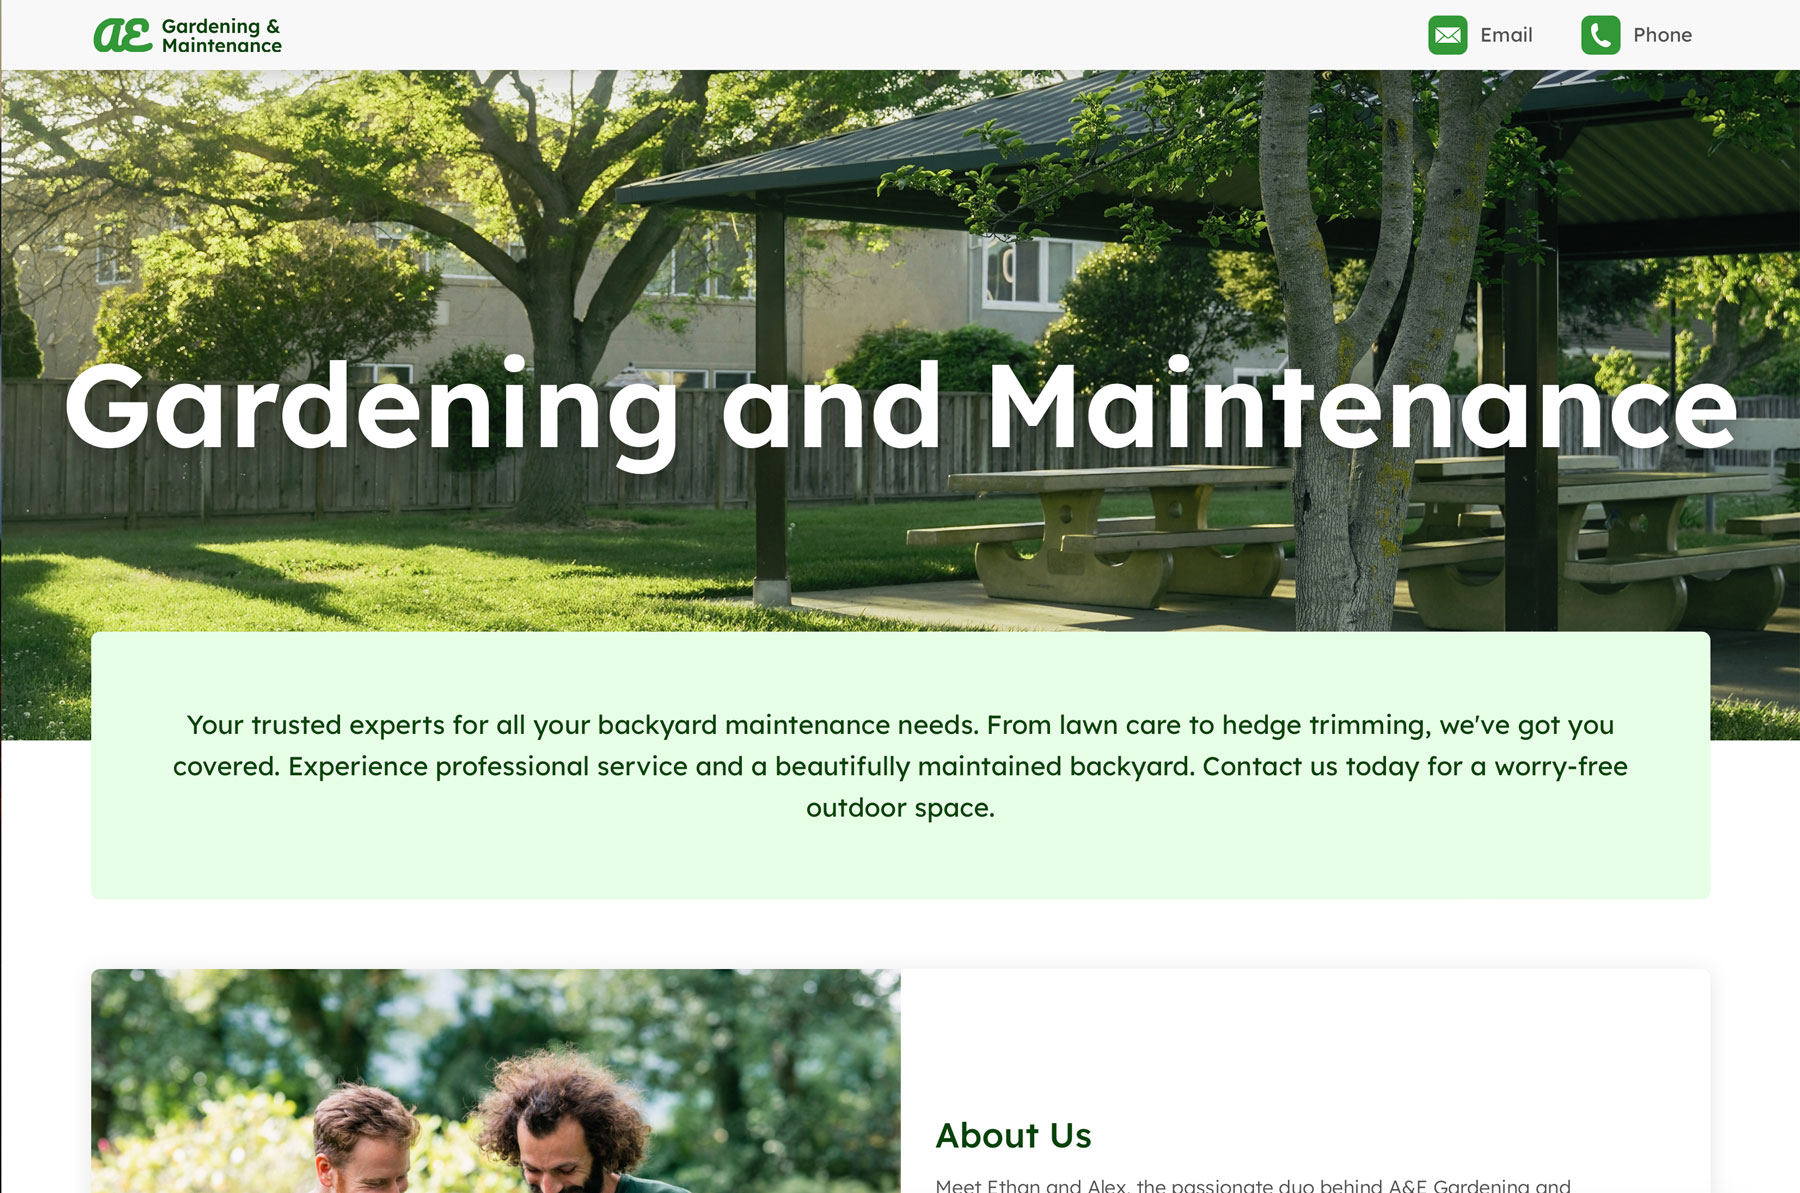
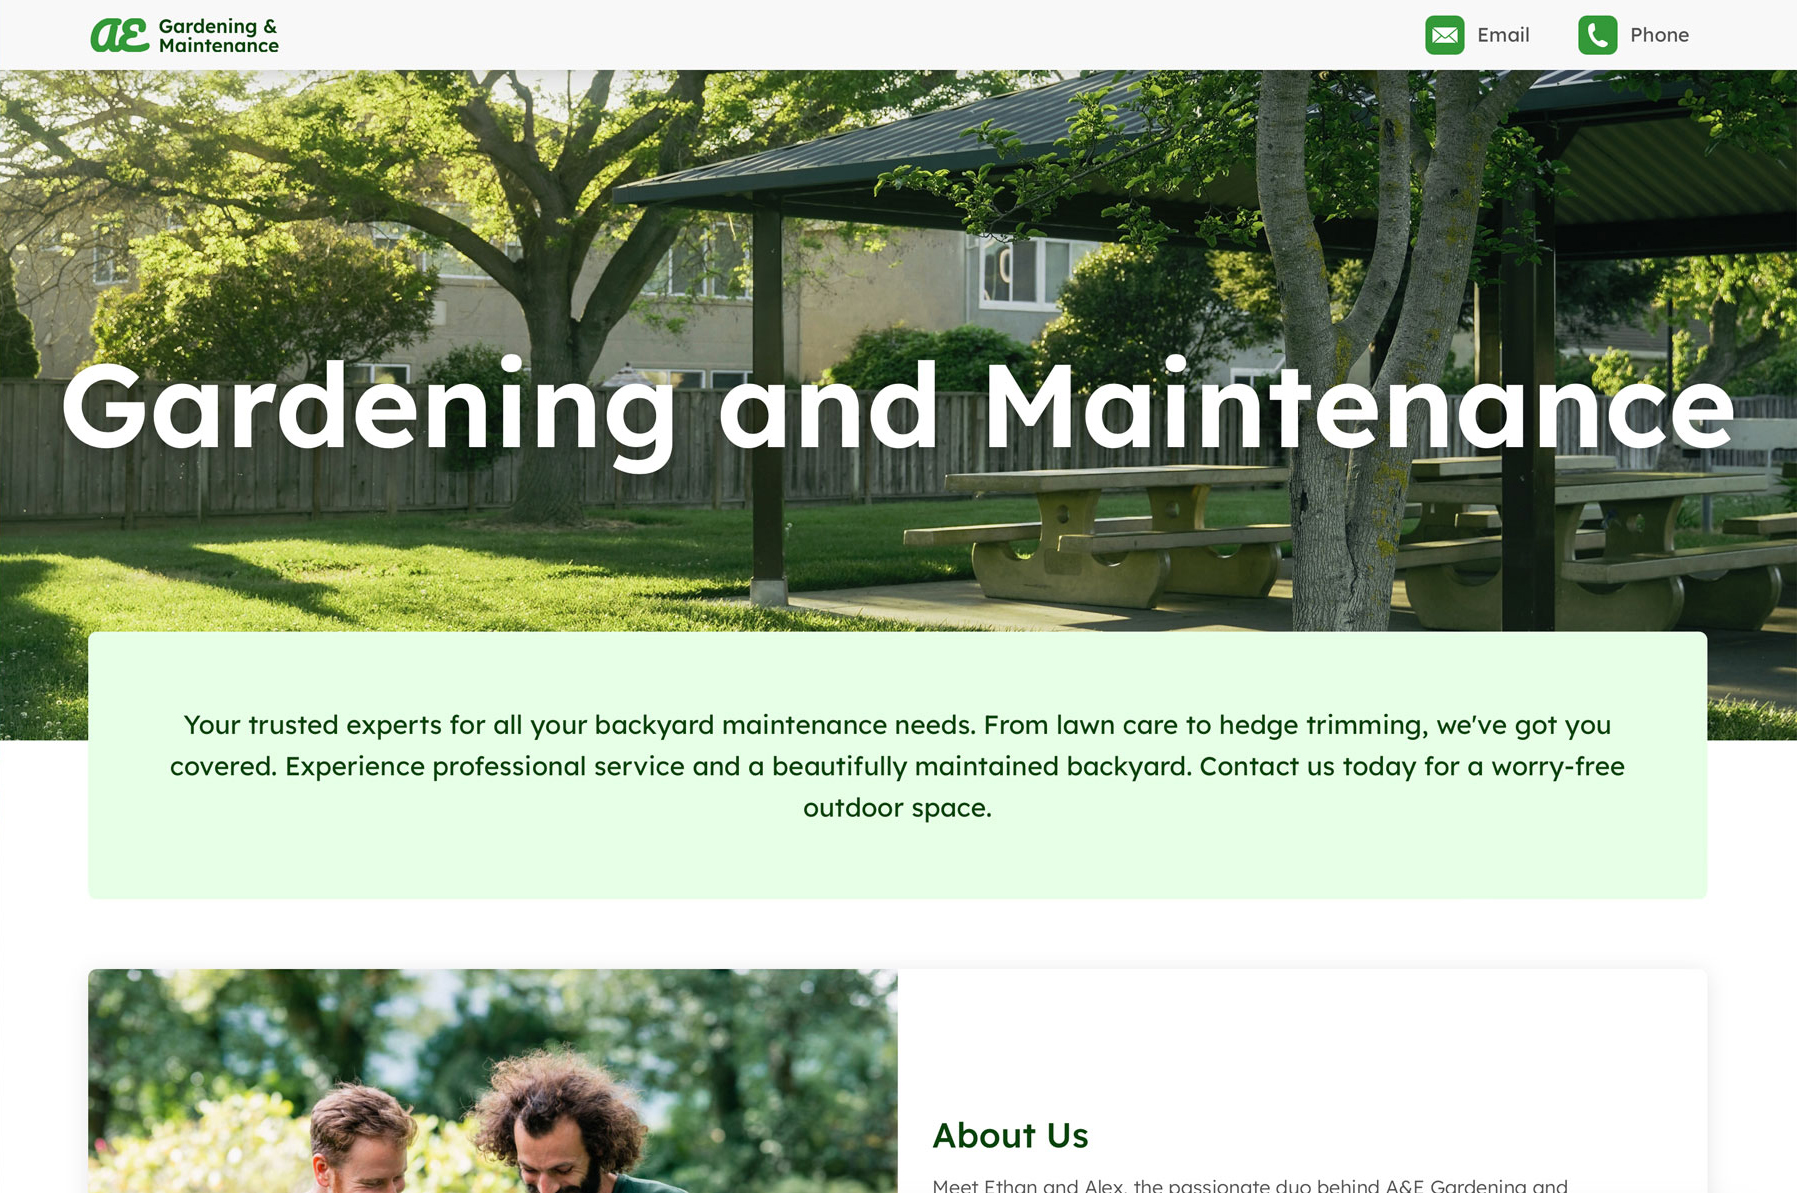
added native & shopify to tech stack and fixed image edges

diff --git a/src/pages/Portfolio/Portfolio.tsx b/src/pages/Portfolio/Portfolio.tsx
@@ -1,7 +1,4 @@
-import React from 'react'
 import './Portfolio.css'
-import headerImageDark from '../../assets/images/componentHeroDark.png'
-import headerImageLight from '../../assets/images/componentHeroLight.png'
 import { useModalContext } from '../../Context'
 import PortfolioItem from '../../components/PortfolioItem/PortfolioItem'
 import InvoiceGenerator from '../../assets/images/invoice-generator.png'
@@ -77,7 +74,7 @@ export default function Portfolio() {
                     year='2022'
                     description={`Memble is a membership based application that connects businesses to their customer base. Through ideation and wireframing, I created the branding and UI/UX for the Memble app. This was a solo project during the design phase where I worked closely with the Founder of Memble to create a seamless user-experience while also creating customer engagement to their local businesses. Once designs were approved I joined the Frontend Development team and worked on parts of the app using React Native. I am really happy with how development was implemented to ensure pixel perfect outcomes.`}
                     tags={['Design', 'Frontend']}
-                    tech={['Illustrator', 'Lottie', 'Photoshop', 'React', 'XD']}
+                    tech={['Illustrator', 'Lottie', 'Photoshop', 'React Native', 'XD']}
                     links={[{
                         label: 'App Store',
                         link: 'https://apps.apple.com/au/app/memble/id1630272903'

diff --git a/src/components/TechCard/TechCard.tsx b/src/components/TechCard/TechCard.tsx
@@ -7,6 +7,7 @@ import firebase from '../../assets/images/firebase.png'
 import illustrator from '../../assets/images/illustrator.png'
 import indesign from '../../assets/images/indesign.png'
 import photoshop from '../../assets/images/photoshop.png'
+import shopify from '../../assets/images/shopify.jpg'
 import react from '../../assets/images/react.png'
 import webflow from '../../assets/images/webflow.png'
 import xd from '../../assets/images/xd.png'
@@ -37,6 +38,8 @@ export default function TechCard({ title, hideTitle }: Props) {
             case 'Lottie': return lottie
             case 'Photoshop': return photoshop
             case 'React': return react
+            case 'React Native': return react
+            case 'Shopify': return shopify
             case 'Typescript': return typescript
             case 'Webflow': return webflow
             case 'XD': return xd

diff --git a/src/pages/Home/Home.tsx b/src/pages/Home/Home.tsx
@@ -10,7 +10,7 @@ import { useModalContext } from '../../Context'
 
 export default function Home() {
 
-  const tech: tech[] = ['Figma', 'Webflow', 'After Effects', 'Illustrator', 'InDesign', 'Photoshop', 'XD', 'Lottie', 'React', 'Typescript', 'HTML', 'CSS', 'Firebase', 'AWS']
+  const tech: tech[] = ['Figma', 'Webflow', 'After Effects', 'Illustrator', 'InDesign', 'Photoshop', 'XD', 'Lottie', 'React', 'React Native', 'Typescript', 'HTML', 'CSS', 'Firebase', 'AWS', 'Shopify']
 
   const [selectedExperience, setSelectedExperience] = useState<Experience>()
   const { isModalOpen, setIsModalOpen } = useModalContext()

diff --git a/src/types.tsx b/src/types.tsx
@@ -1,6 +1,6 @@
 import { ReactElement } from "react"
 
-export type tech = 'After Effects' | 'AWS' | 'CSS' | 'Figma' | 'Firebase' | 'HTML' | 'InDesign' | 'Illustrator' | 'Lottie' | 'Photoshop' | 'React' | 'Typescript' | 'Webflow' | 'XD'
+export type tech = 'After Effects' | 'AWS' | 'CSS' | 'Figma' | 'Firebase' | 'HTML' | 'InDesign' | 'Illustrator' | 'Lottie' | 'Photoshop' | 'React' | 'React Native' | 'Shopify' | 'Typescript' | 'Webflow' | 'XD'
 export type company = 'VALD' | 'QUT' | 'Moonward' | 'All Brands Toys'
 
 export type Experience = {

diff --git a/src/index.css b/src/index.css
@@ -225,6 +225,8 @@ textarea:hover::placeholder {
   :root {
     --header-font-size: 7vw;
     --xl-font-size: 20px;
+    --large-font-size: 16px;
+    --medium-font-size: 14px;
     --small-font-size: 12px;
 
     --content-padding: 32px 16px;

diff --git a/src/components/PortfolioItem/PortfolioItem.css b/src/components/PortfolioItem/PortfolioItem.css
@@ -156,4 +156,8 @@
         grid-row: unset;
     }
 
+    .PortfolioItem__TitleContainer {
+        gap: 4px;
+    }
+
 }
